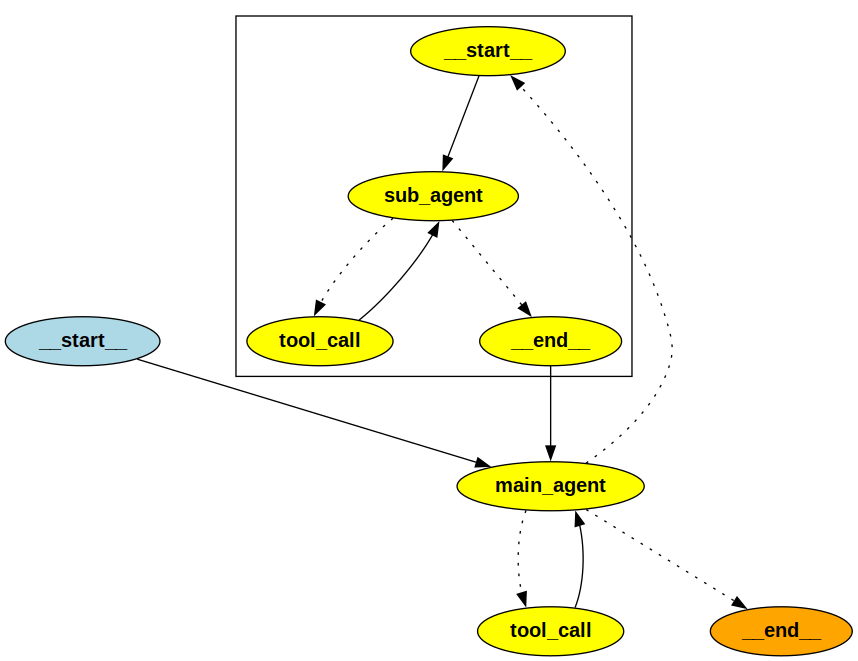
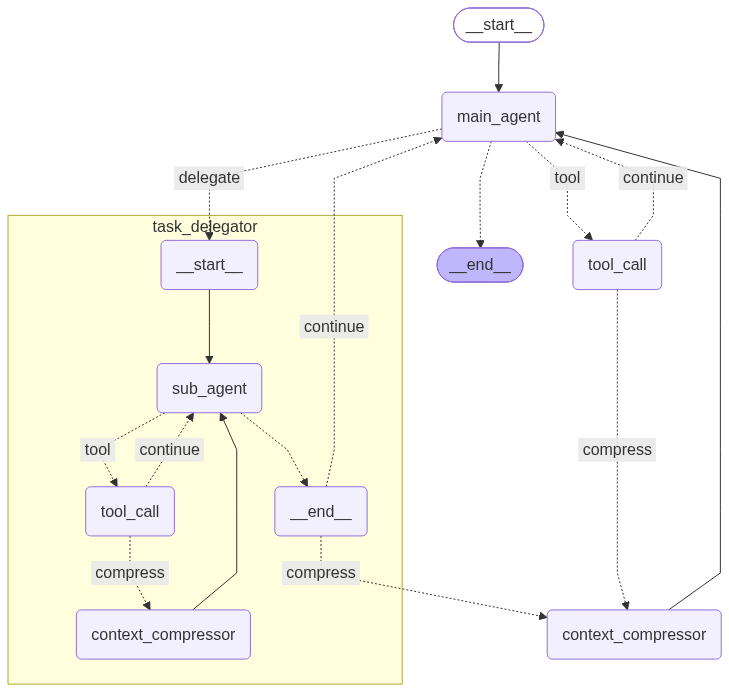
added context compression node, reducer causing issues, main_agent to end bypasses context compression

diff --git a/coding_harness/orchestration_main_agent.py b/coding_harness/orchestration_main_agent.py
@@ -1,7 +1,12 @@
 from langgraph.graph import StateGraph, START, END
 
 from coding_harness.states import MainAgentState
-from coding_harness.nodes import *
+from coding_harness.nodes import (
+    main_agent,
+    tool_call,
+    task_delegator,
+    context_compressor
+)
 from coding_harness.conditional_edges import *
 
 
@@ -12,6 +17,7 @@ code_harness = StateGraph(MainAgentState)
 code_harness.add_node("main_agent", main_agent)
 code_harness.add_node("tool_call", tool_call)
 code_harness.add_node("task_delegator", task_delegator)
+code_harness.add_node("context_compressor", context_compressor)
 
 # edges
 code_harness.add_edge(START, "main_agent")
@@ -19,12 +25,29 @@ code_harness.add_conditional_edges(
     "main_agent",
     tool_call_decision_edge,
     {
-        "tool_call": "tool_call",
-        "task_delegator": "task_delegator"
+        "tool": "tool_call",
+        "delegate": "task_delegator"
     }
 )
-code_harness.add_edge("tool_call", "main_agent")
-code_harness.add_edge("task_delegator", "main_agent")
+# code_harness.add_edge("tool_call", "main_agent")
+# code_harness.add_edge("task_delegator", "main_agent")
+code_harness.add_conditional_edges(
+    "tool_call",
+    context_compression_decision_edge,
+    {
+        "compress": "context_compressor",
+        "continue": "main_agent"
+    }
+)
+code_harness.add_conditional_edges(
+    "task_delegator",
+    context_compression_decision_edge,
+    {
+        "compress": "context_compressor",
+        "continue": "main_agent"
+    }
+)
+code_harness.add_edge("context_compressor", "main_agent")
 
 
 # compilation

diff --git a/coding_harness/nodes/context_compression_node.py b/coding_harness/nodes/context_compression_node.py
@@ -1,0 +1,44 @@
+import logging
+
+from services.ollama_llm_service import call_llm
+from coding_harness.states import MainAgentState, SubAgentState
+from config.env_config import env_settings
+
+logger = logging.getLogger(__name__)
+
+
+prompt = """
+You are a context compression agent.
+Your job is to compress the given context into a brief summary.
+The context will be brief, but it should contain eveything that has happened till now,
+and what is currently requested by the user, or what is being done at the moment should be preserved
+as it is of great importance.
+"""
+
+async def context_compressor(state: MainAgentState | SubAgentState):
+    logger.info("Inside context compression node")
+    messages_to_compress = state.get("session_messages", [])
+    messages = [
+        {
+            "role": "system",
+            "content": prompt.strip()
+        },
+        {
+            "role": "user",
+            "conent": f"Context to compress:\n{messages_to_compress}"
+        }
+    ]
+    llm_response = await call_llm(
+        messages=messages,
+        model=env_settings.OLLAMA_CONTEXT_COMPRESSION_MODEL
+    )
+
+    updated_session_messages = [{
+        "role": "user",
+        "content": f"Compressed context of what happened till now:\n{llm_response.message.content}"
+    }]
+
+    logger.info("Exiting context compression node")
+    return {
+        "session_messages": updated_session_messages
+    }

diff --git a/coding_harness/orchestration_sub_agent.py b/coding_harness/orchestration_sub_agent.py
@@ -2,7 +2,8 @@ from langgraph.graph import START, END, StateGraph
 from coding_harness.states import SubAgentState
 from coding_harness.nodes import (
     sub_agent,
-    tool_call
+    tool_call,
+    context_compressor
 )
 from coding_harness.conditional_edges import *
 
@@ -13,6 +14,7 @@ sub_agent_orchestration = StateGraph(SubAgentState)
 # nodes
 sub_agent_orchestration.add_node("sub_agent", sub_agent)
 sub_agent_orchestration.add_node("tool_call", tool_call)
+sub_agent_orchestration.add_node("context_compressor", context_compressor)
 
 # edges
 sub_agent_orchestration.add_edge(START, "sub_agent")
@@ -20,10 +22,19 @@ sub_agent_orchestration.add_conditional_edges(
     "sub_agent",
     tool_call_decision_edge,
     {
-        "tool_call": "tool_call"
+        "tool": "tool_call"
     }
 )
-sub_agent_orchestration.add_edge("tool_call", "sub_agent")
+# sub_agent_orchestration.add_edge("tool_call", "sub_agent")
+sub_agent_orchestration.add_conditional_edges(
+    "tool_call",
+    context_compression_decision_edge,
+    {
+        "compress": "context_compressor",
+        "continue": "sub_agent"
+    }
+)
+sub_agent_orchestration.add_edge("context_compressor", "sub_agent")
 
 
 # compilation

diff --git a/generate_graph.py b/generate_graph.py
@@ -5,6 +5,9 @@ from coding_harness.orchestration_sub_agent import compiled_sub_agent_orchestrat
 try:
     # compiled_harness.get_graph(xray=True).draw_png(output_file_path="main_graph.png")
     # compiled_sub_agent_orchestration.get_graph(xray=True).draw_png(output_file_path="sub_graph.png")
-    compiled_harness.get_graph(xray=True).draw_png(output_file_path="graph.png")
+    try:
+        compiled_harness.get_graph(xray=True).draw_mermaid_png(output_file_path="graph.png")
+    except:
+        compiled_harness.get_graph(xray=True).draw_png(output_file_path="graph.png")
 except Exception as e:
     print(f"Error generating graph.png: {e}")

diff --git a/coding_harness/conditional_edges/context_compression.py b/coding_harness/conditional_edges/context_compression.py
@@ -1,0 +1,18 @@
+import logging
+
+from coding_harness.states import MainAgentState, SubAgentState
+from config.env_config import env_settings
+
+logger = logging.getLogger(__name__)
+
+
+async def context_compression_decision_edge(state: MainAgentState | SubAgentState):
+    logger.info("Inside context compression decision edge")
+
+    current_session_tokens = state.get("session_current_token_count", 0)
+    return_node = "continue"
+    if current_session_tokens >= env_settings.CONTEXT_TOKENS_ALLOWED:
+        return_node = "compress"
+
+    logger.info("Exiting context compression decision edge")
+    return return_node

diff --git a/services/ollama_llm_service.py b/services/ollama_llm_service.py
@@ -22,6 +22,7 @@ async def call_llm(
 ) -> ChatResponse:
     logger.info("Calling llm...")
 
+    logger.debug(f"Input messages: {messages}")
     llm_response: ChatResponse = await ollama_manager.client.chat(
         model=model,
         messages=messages,
@@ -32,8 +33,7 @@ async def call_llm(
         #     "n_thread": 6
         # }
     )
-
-    logger.info(f"Raw LLM response: {llm_response}")
+    logger.debug(f"Raw LLM response: {llm_response}")
     logger.info(f"Token usage:\nInput tokens: {llm_response.prompt_eval_count}\nOutput tokens: {llm_response.eval_count}")
 
     return llm_response

diff --git a/coding_harness/nodes/main_agent_node.py b/coding_harness/nodes/main_agent_node.py
@@ -61,6 +61,7 @@ async def main_agent(state: MainAgentState):
     if llm_response:
         state_updates["session_input_tokens"] = state.get("session_input_tokens", 0) + llm_response.prompt_eval_count
         state_updates["session_output_tokens"] = state.get("session_output_tokens", 0) + llm_response.eval_count
+        state_updates["session_current_token_count"] = llm_response.prompt_eval_count + llm_response.eval_count
     if llm_response.message.content:
         state_updates["session_messages"].append({
             "role": "assistant",

diff --git a/coding_harness/nodes/sub_agent_node.py b/coding_harness/nodes/sub_agent_node.py
@@ -54,6 +54,7 @@ async def sub_agent(state: SubAgentState):
     if llm_response:
         state_updates["session_input_tokens"] = state.get("session_input_tokens", 0) + llm_response.prompt_eval_count
         state_updates["session_output_tokens"] = state.get("session_output_tokens", 0) + llm_response.eval_count
+        state_updates["session_current_token_count"] = llm_response.prompt_eval_count + llm_response.eval_count
     if llm_response.message.content:
         state_updates["session_messages"].append({
             "role": "assistant",

diff --git a/coding_harness/states.py b/coding_harness/states.py
@@ -8,6 +8,7 @@ class MainAgentState(TypedDict):
     main_agent_calls: int
     session_input_tokens: int
     session_output_tokens: int
+    session_current_token_count: int
     tool_registry: dict
     tool_calls: list
     tool_results: list
@@ -22,6 +23,7 @@ class SubAgentState(TypedDict):
     sub_agent_calls: int
     session_input_tokens: int
     session_output_tokens: int
+    session_current_token_count: int
     tool_registry: dict
     tool_calls: list
     tool_results: list

diff --git a/coding_harness/conditional_edges/agent_to_tool.py b/coding_harness/conditional_edges/agent_to_tool.py
@@ -32,8 +32,9 @@ def tool_call_decision_edge(state: MainAgentState | SubAgentState) -> str:
 
     node_list = []
     if tool_node_tasks:
-        node_list.append("tool_call")
+        node_list.append("tool")
     if delegate_node_tasks:
-        node_list.append("task_delegator")
+        node_list.append("delegate")
 
+    logger.info("Exiting tool call decision edge")
     return node_list

diff --git a/config/logger_config.py b/config/logger_config.py
@@ -27,7 +27,7 @@ def setup_logging(LOG_DIR="logs", LOG_FILE="app.log"):
             },
             "file_handler": {
                 "class": "logging.handlers.RotatingFileHandler",
-                "level": "INFO",
+                "level": "DEBUG",
                 "formatter": "file_formatter",
                 "filename": LOG_FILEPATH,
                 "maxBytes": 10*1024*1024,

diff --git a/config/env_config.py b/config/env_config.py
@@ -7,6 +7,9 @@ class EnvSettings(BaseSettings):
     OLLAMA_API_KEY: str
     OLLAMA_MAIN_AGENT_MODEL: str = "gemma4:cloud"
     OLLAMA_SUB_AGENT_MODEL: str = "gemma4:cloud"
+    OLLAMA_CONTEXT_COMPRESSION_MODEL: str = "gpt-oss:120b-cloud"
+
+    CONTEXT_TOKENS_ALLOWED: int = 32384
     AGENT_WORK_DIR: str
 
     SHELL_COMMANDS_ALLOWED: list = ["ls", "grep", "glob", "rm", "cat"]
